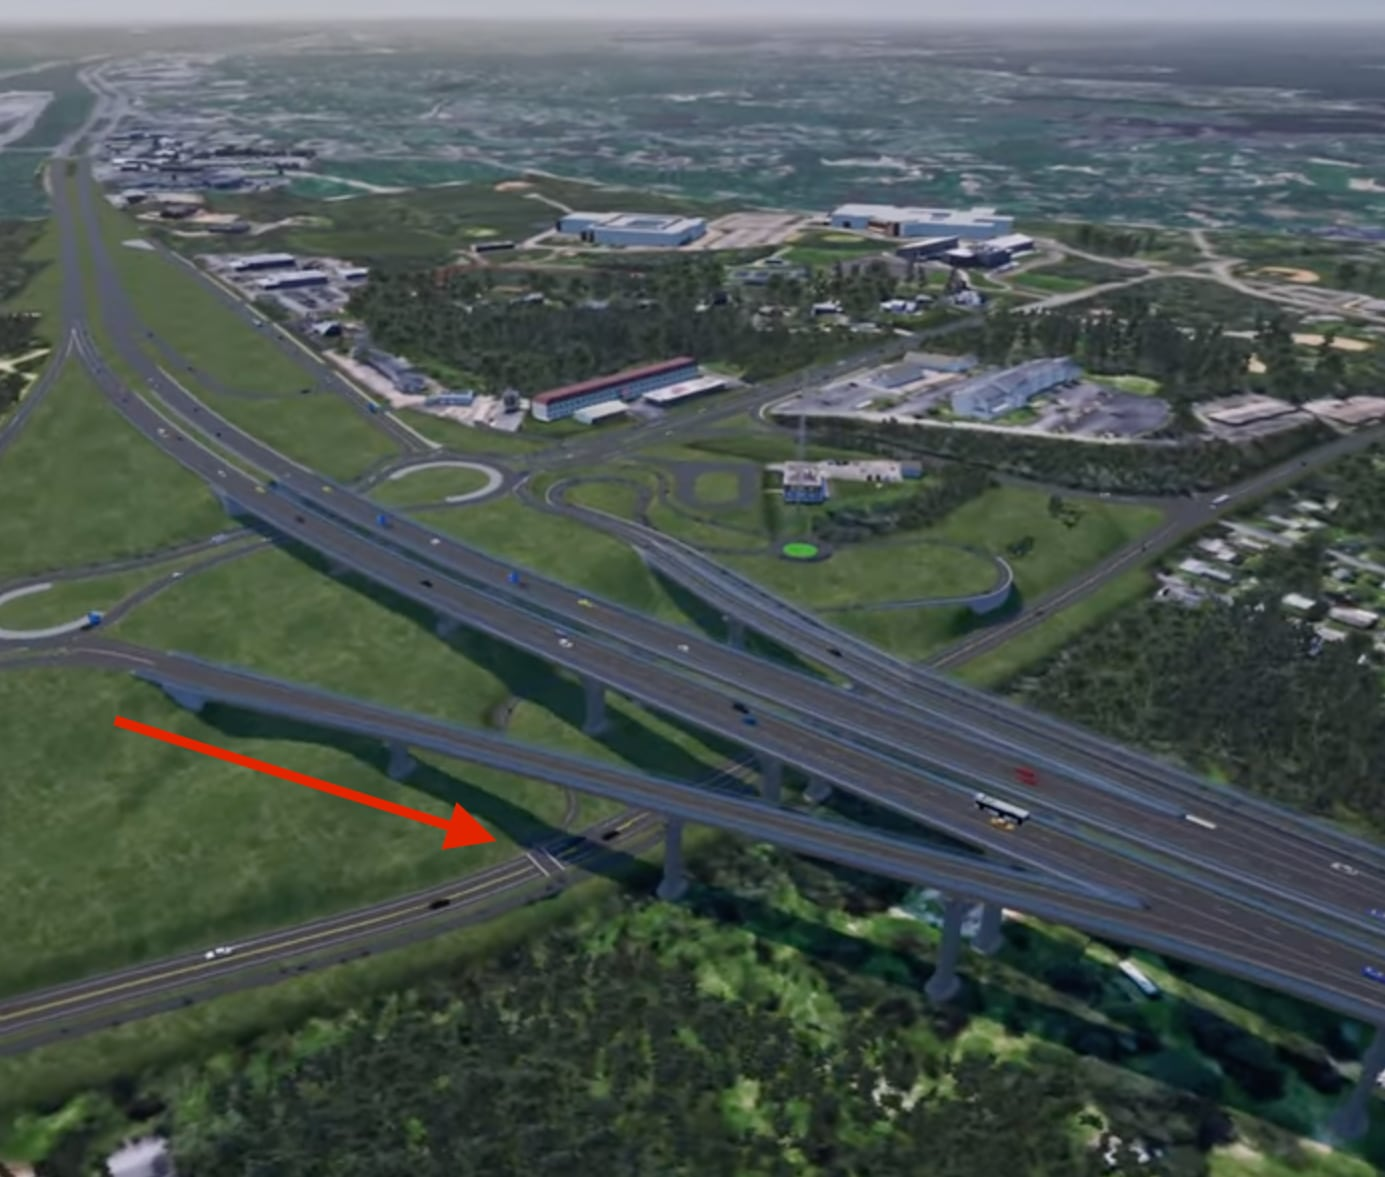
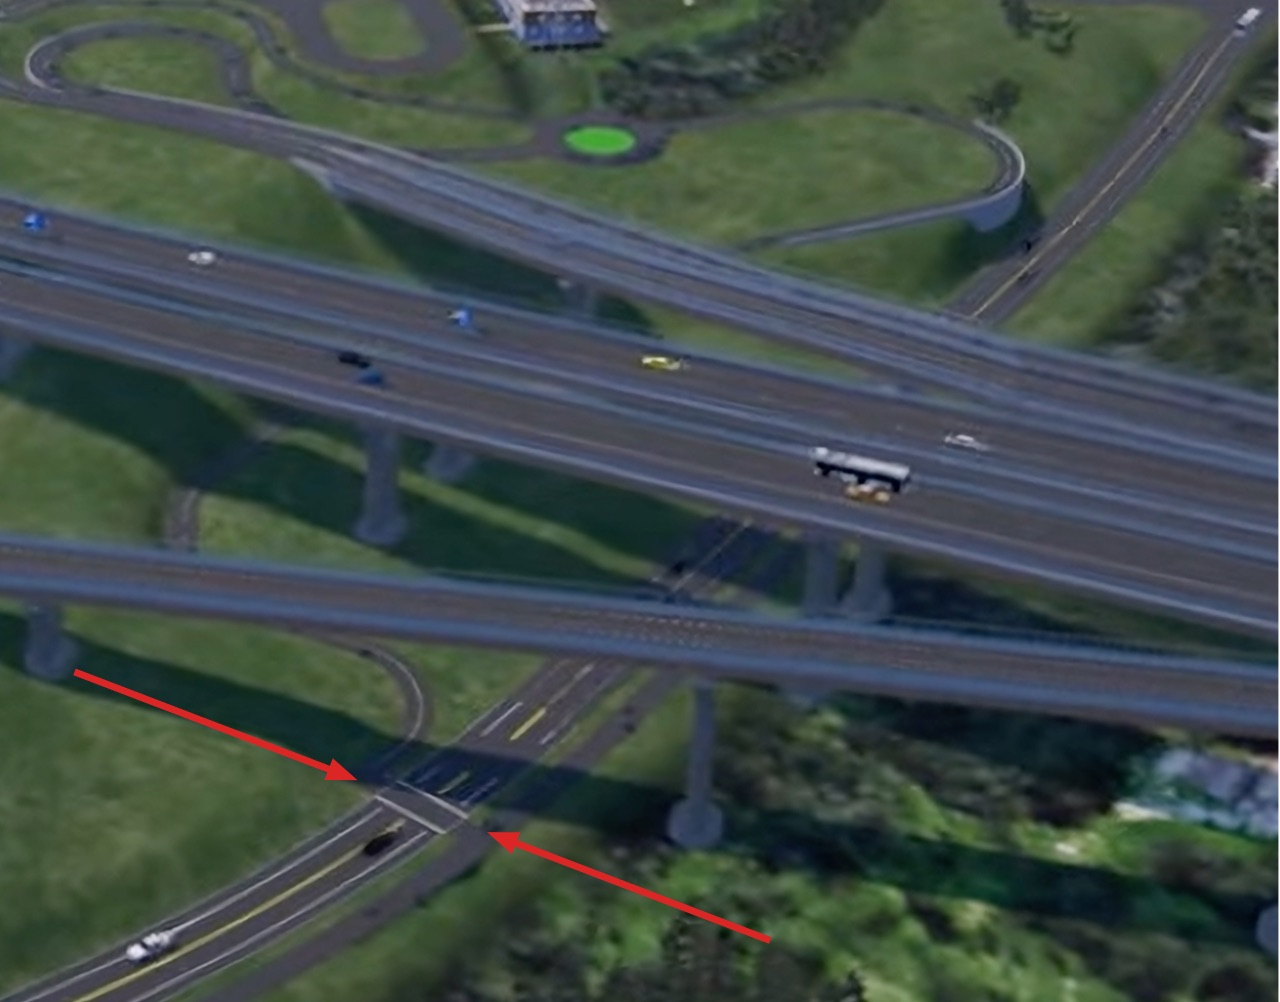
doc: Minor fixes to main page
- Changed top image to point at much JPG that is 100x smaller file size
- Raised font size in selected places
- Moved "Action 3" inside the bounding Div for Actions 1 & 2

diff --git a/index.html b/index.html
@@ -65,7 +65,7 @@
   <section class="px-4 sm:px-6 py-4 md:py-6">
     <div class="max-w-xl md:max-w-3xl lg:max-w-5xl mx-auto">
       <figure class="rounded-2xl overflow-hidden border border-zinc-800 bg-zinc-900">
-        <img id="gradeImage" src="images/BBridge.png" alt="Proposed at‑grade Sandwich Rd crossing near the south end of the Bourne Bridge" class="w-full block" />
+        <img id="gradeImage" src="images/BBridge-crossing.jpg" alt="Proposed at‑grade Sandwich Rd crossing near the south end of the Bourne Bridge" class="w-full block" />
         <figcaption class="text-xs text-zinc-400 p-3">Illustration of the proposed <span class="font-semibold">at‑grade</span> crossing. We're urging a <span class="font-semibold">grade‑separated overpass</span> for safety and event capacity.</figcaption>
       </figure>
     </div>
@@ -156,14 +156,14 @@
     <div class="max-w-xl md:max-w-3xl lg:max-w-5xl mx-auto space-y-6">
       <div class="space-y-2">
         <h2 class="text-2xl md:text-3xl font-bold text-red-600">Add your voice before the comment period closes!</h2>
-        <p class="mt-2 text-zinc-300 md:text-lg">massDOT is accepting comments on <span class="font-semibold">Project file #<span id="eeaNum2">608020</span></span> — the Cape Cod Bridges Program.</p>
-        <p class="text-sm md:text-base text-sky-400 font-semibold">There are three ways you can take action right now:</p>
+        <p class="mt-2 text-zinc-300 md:text-lg">massDOT is accepting comments on <a href="https://www.mass.gov/lists/draft-environmental-impact-statement-for-replacing-the-cape-cod-bridges"><span class="font-semibold text-sky-400">Project file #<span id="eeaNum2">608020</span></span></a> ONLY until January 5, 2026.</p>
+        <p class="text-sm md:text-base text-amber-400 font-semibold">There are three ways you can take action right now:</p>
       </div>
 
       <div class="space-y-6">
         <!-- Action 1: Public meeting -->
         <div id="action-meeting" class="space-y-3 bg-zinc-900/40 border border-zinc-800 rounded-xl p-4 md:p-5">
-          <p class="text-xs font-semibold uppercase tracking-wide text-amber-400">Action 1: Attend the public meeting</p>
+          <p class="text-sm font-semibold uppercase tracking-wide text-amber-400">Action 1: Attend the public meeting</p>
           <h3 class="text-2xl font-bold">Attend the public meeting on December 16, 2025</h3>
           <p class="text-zinc-300 text-sm md:text-base">MassDOT is holding a virtual public meeting on Tuesday, December 16, 2025. Show that a safe, grade-separated crossing matters by joining, asking questions, and sharing why this design choice is important to you.</p>
           <a
@@ -178,8 +178,8 @@
 
         <!-- Action 2: Portal Section -->
         <div class="space-y-3 bg-zinc-900/40 border border-zinc-800 rounded-xl p-4 md:p-5">
-          <p class="text-xs font-semibold uppercase tracking-wide text-amber-400">Action 2: Submit a comment via the portal</p>
-          <h3 class="text-2xl font-bold">Add your comments to the MassDOT comment portal</h3>
+          <p class="text-sm font-semibold uppercase tracking-wide text-amber-400">Action 2: Submit a comment via the portal</p>
+          <h3 class="text-sm font-bold">Add your comments to the MassDOT comment portal</h3>
           <p class="text-zinc-300">According to <a href="https://www.mass.gov/info-details/latest-updates-cape-cod-bridges-project" target="_blank" rel="noopener" class="underline">MassDOT's Cape Cod Bridges Program page</a>, you must submit comments via the <a id="portalLink" class="underline font-semibold" href="https://pima.massdotpi.com/public/comment/project-comment-dynamic?project_id=13868" target="_blank" rel="noopener">the MassDOT comment portal</a>.</p>
 
           
@@ -209,25 +209,21 @@ Signed,
             <a id="openPortal" class="text-center rounded-lg bg-white text-black font-semibold px-4 py-3" href="https://pima.massdotpi.com/public/comment/project-comment-dynamic?project_id=13868" target="_blank" rel="noopener">Go to portal and paste copied comment</a>
           </div>
         </div>
-      </div>
-    </div>
-  </section>
 
-  <!-- SIGNATURE FORM -->
-  <section id="sign" class="px-4 sm:px-6 pb-10 md:pb-12 lg:pb-16">
-    <div class="max-w-xl md:max-w-3xl lg:max-w-5xl mx-auto space-y-3">
-      <div class="space-y-1">
-        <p class="text-xs font-semibold uppercase tracking-wide text-amber-400">Action 3: Add your name</p>
-        <h2 class="text-2xl font-bold">Add your name (coalition support)</h2>
-      </div>
-      <p>Don't want to fill out the massDOT comment form yourself? We've drafted a <a href="documents/dot-608020-comment-nosig.pdf" target="_blank" rel="noopener" class="underline">full submission (PDF)</a> to massDOT.</p>
-      <p class="text-sm text-zinc-300">You can add your name and town via this Google form, and we’ll append the list of supporters with our comment.</p>
-      <div class="rounded-2xl overflow-hidden border border-zinc-800">
-        <iframe src="https://docs.google.com/forms/d/e/1FAIpQLSd_4fBMV8hVplrK1uF-Y-5eZ8EAq9gSW80mN20mOxN10yPzcg/viewform?embedded=true" width="640" height="3000" frameborder="0" marginheight="0" marginwidth="0" class="w-full h-[1600px] md:h-[1800px] lg:h-[2000px] bg-white">Loading…</iframe>
-      </div>
-      <div class="flex gap-2">
-        <a id="openSignatureForm" class="flex-1 text-center rounded-lg bg-amber-400 text-black font-semibold px-4 py-3" href="https://forms.gle/8aczozfWfL5Skd2a8" target="_blank" rel="noopener">Open form in new tab</a>
-        <button id="copyForm" class="flex-1 text-center rounded-lg bg-zinc-800 text-white font-semibold px-4 py-3">Copy form link</button>
+        <!-- Action 3: Signature Form -->
+        <div id="sign" class="space-y-3 bg-zinc-900/40 border border-zinc-800 rounded-xl p-4 md:p-5">
+          <p class="text-sm font-semibold uppercase tracking-wide text-amber-400">Action 3: Add your name</p>
+          <h3 class="text-4xl font-bold">Add your name (coalition support)</h3>
+          <p class="text-zinc-300 text-sm md:text-base">Don't want to fill out the massDOT comment form yourself? We've drafted a <a href="documents/dot-608020-comment-nosig.pdf" target="_blank" rel="noopener" class="underline">full submission (PDF)</a> to massDOT.</p>
+          <p class="text-sm text-zinc-300">You can add your name and town via this Google form, and we'll append the list of supporters with our comment.</p>
+          <div class="rounded-2xl overflow-hidden border border-zinc-800">
+            <iframe src="https://docs.google.com/forms/d/e/1FAIpQLSd_4fBMV8hVplrK1uF-Y-5eZ8EAq9gSW80mN20mOxN10yPzcg/viewform?embedded=true" width="640" height="3000" frameborder="0" marginheight="0" marginwidth="0" class="w-full h-[1600px] md:h-[1800px] lg:h-[2000px] bg-white">Loading…</iframe>
+          </div>
+          <div class="flex gap-2">
+            <a id="openSignatureForm" class="flex-1 text-center rounded-lg bg-amber-400 text-black font-semibold px-4 py-3" href="https://forms.gle/8aczozfWfL5Skd2a8" target="_blank" rel="noopener">Open form in new tab</a>
+            <button id="copyForm" class="flex-1 text-center rounded-lg bg-zinc-800 text-white font-semibold px-4 py-3">Copy form link</button>
+          </div>
+        </div>
       </div>
     </div>
   </section>
